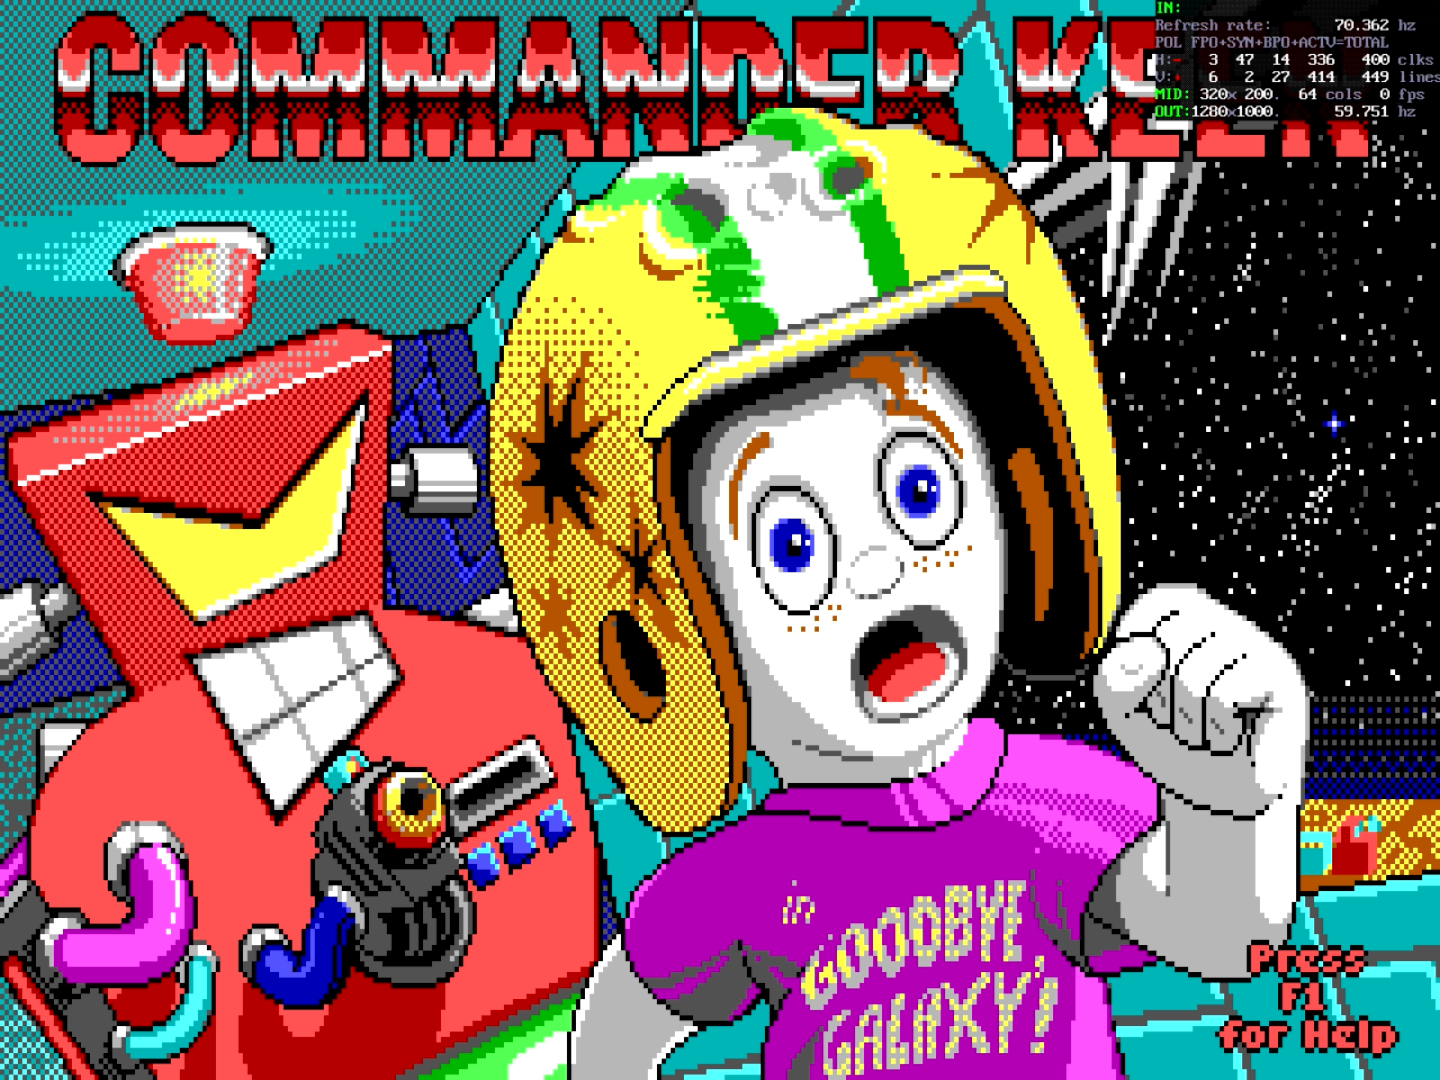
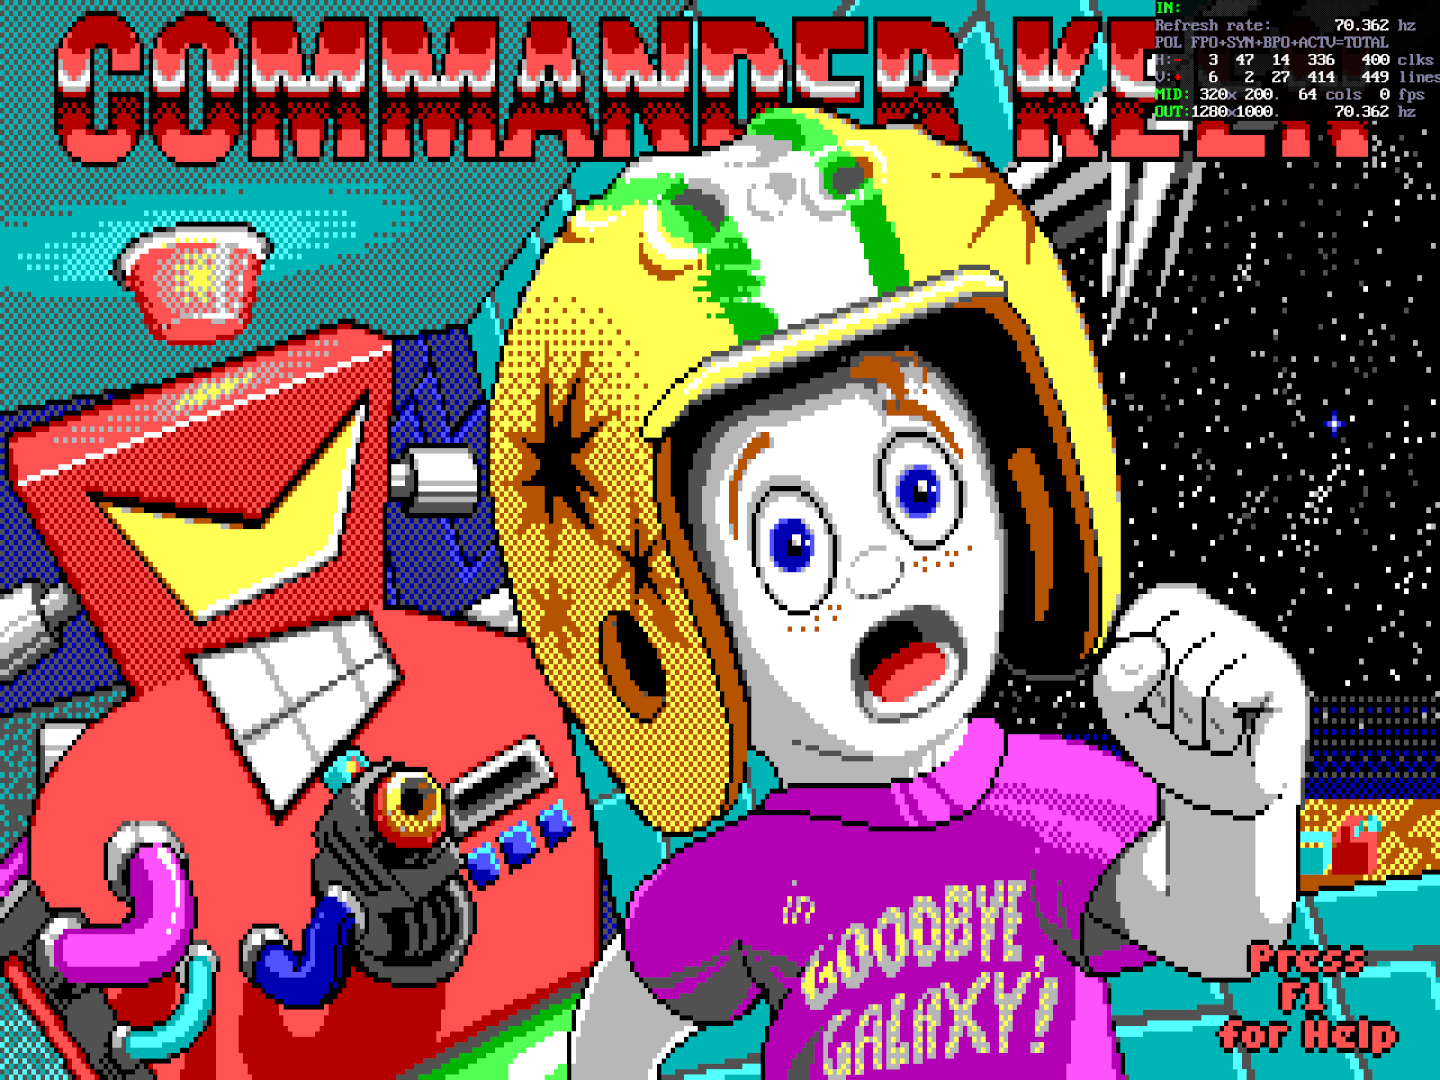
Manual: Revised "Video Upscaling with CRT Terminator" section with a new comparison table, and uploaded new video capture screenshots that avoided a OBS misconfiguration with earlier screenshots.

diff --git a/manual/index.html b/manual/index.html
@@ -87,7 +87,7 @@ td {
 
 <h1 class='center'>CRT Terminator DV1000 ISA</h1>
 <h2 class='center' style='padding-top: 0px'>User Manual</h2>
-<h3 class='center'>2024-11-26</h3>
+<h3 class='center'>2024-12-05</h3>
 
 <img src="crt_terminator_showcase.jpg" style="float:right; width:37%; border: solid 1px black; margin-right: 20px; margin-top: 60px">
 
@@ -610,7 +610,7 @@ all packed into a single 8-bit ISA expansion card!
 
 <p>This section describes the video upscaling strategy employed by CRT Terminator.</p>
 
-<p>First note that CRT Terminator supports a <b>Passthrough mode</b> for use cases where upscaling is not desired. In Passthrough mode, minimal on-the-fly video normalization is performed without the use of a framebuffer (i.e. no added latency), to generate a video signal that many modern displays will hopefully be able to synchronze to.</p>
+<p>First note that CRT Terminator supports a <b>Passthrough mode</b> for use cases where upscaling is not desired. In Passthrough mode, minimal on-the-fly video normalization is performed without the use of a framebuffer (i.e. no added latency), to generate a video signal that many modern displays will hopefully be able to synchronize to.</p>
 
 <p>However, Passthrough mode may have some drawbacks:
 <ul>
@@ -642,14 +642,63 @@ all packed into a single 8-bit ISA expansion card!
 
 <p>Click on the above thumbnails to pixel peep into the full images in 100% size.</p>
 
-<p>When the effects of CRT Terminator video upsampling and flat panel display upsampling are combined, the different CRT Terminator operation modes produce different final results:</p>
-<ul>
-<li><b>Passthrough</b>: Bilinear filtering</li>
-<li><b>Fixed Resolution</b>: Point sampling</li>
-<li><b>MultiMode</b>: Surface Area upsampling</li>
-</ul>
+<p>When the effects of CRT Terminator video upsampling and flat panel display upsampling are combined, the different CRT Terminator operation modes produce different final results. The following table compares the pros and cons of the different modes:</p>
+
+<table>
+  <caption>
+    Comparison of different CRT Terminator video upscaling modes.
+  </caption>
+  <thead>
+    <tr>
+      <th scope="col">Mode</th>
+      <th scope="col">Upscaling</th>
+      <th scope="col">Visual End Result</th>
+      <th scope="col">Uses Framebuffer?</th>
+      <th scope="col">Added Latency</th>
+      <th scope="col">Output Video Mode?</th>
+      <th scope="col">Output Aspect Ratio</th>
+      <th scope="col">LCD Compatibility</th>
+    </tr>
+  </thead>
+  <tbody>
+    <tr>
+      <th scope="row">Passthrough</th>
+      <td>Bilinear Filtering</td>
+      <td>Smoothest</td>
+      <td>No</td>
+      <td>Microseconds</td>
+      <td>Varies</td>
+      <td>Varies. Use 4:3 mode on LCD.</td>
+      <td>Nonstandard</td>
+    </tr>
+    <tr>
+      <th scope="row">Fixed Resolution</th>
+      <td>Point Sampling</td>
+      <td>Crispest</td>
+      <td>Yes</td>
+      <td>1-2 frames</td>
+      <td>Fixed if StutterStop is disabled</td>
+      <td>Fixed 4:3 or 16:9.</td>
+      <td>Standard DMT or CVT</td>
+    </tr>
+    <tr>
+      <th scope="row">MultiMode</th>
+      <td>Surface Area upsampling</td>
+      <td>Balanced</td>
+      <td>Yes</td>
+      <td>1-2 frames</td>
+      <td>Varies</td>
+      <td>Varies. Use 4:3 mode on LCD.</td>
+      <td>Nonstandard</td>
+    </tr>
+  </tbody>
+</table>
 
 <p>In general we recommend using MultiMode for best picture quality, and falling back to other modes for compatibility, subject to taste.</p>
+
+<p>It is good to note that in the modes where input resolution changes trigger an output resolution change (Passthrough, MultiMode, and Fixed Resolution with StutterStop enabled), some LCD displays may take a couple of seconds to sync to the changed video mode. So, as an example, when playing Sierra's Black Cauldron or King's Quest, where switching between inventory and game views incur a video mode change, it may be better to use Fixed Resolution mode with StutterStop disabled, to avoid repeated slow video re-syncs. Some video capture boxes or recording software (such as OBS) may also have trouble with video frame rate changing during recording.
+
+<p>In video modes that use a framebuffer to upscale, single-buffering (vsync disabled, ~1 frame of latency) vs triple-buffering (vsync enabled, ~2 frames of latency) can be controlled in software with CRT Terminator configuration utility.
 
 <a name='pixel_perfect_upscaling'><h2>Pixel Perfect Upscaling DOS 320x200 games</h2></a>
 
@@ -659,9 +708,13 @@ all packed into a single 8-bit ISA expansion card!
 <a href='320x200_upscaled_to_1440x1080_fixed_resolution.png'><img src='320x200_upscaled_to_1440x1080_fixed_resolution.png' style='width: 100%'></a><br>On a 1920x1080 display, upscale to 1440x1080 using <b>Fixed Resolution</b> mode.
 </td><td>
 <a href='320x200_upscaled_to_1440x1080_multimode.png'><img src='320x200_upscaled_to_1440x1080_multimode.png' style='width: 100%'></a><br>On a 1920x1080 display, upscale to 1440x1080 using <b>MultiMode</b> scaling. (CRT Terminator will upscale to 1280x1000 for the LCD display to upscale to 1440x1080 in 4:3 mode)
-</td><td>
-<a href='320x220_upscaled_to_1600x1200.png'><img src='320x220_upscaled_to_1600x1200.png' style='width: 100%'></a><br>On a 1600x1200 or a 1920x1200 display, upscale to 1600x1200 (using either Fixed Resolution or MultiMode operation)
-</td></tr></table>
+</td></tr><td>
+<a href='320x200_upscaled_to_1600x1200.png'><img src='320x200_upscaled_to_1600x1200.png' style='width: 100%'></a><br>On a 1600x1200 or a 1920x1200 display, upscale to 1600x1200 (using either Fixed Resolution or MultiMode operation). Lossless and pixel perfect on real display, video capture suffers from lossy 4:2:0 Chroma.
+</td><td><a href='320x200_passthrough_upscaled_to_1600x1200.png'><img src='320x200_passthrough_upscaled_to_1600x1200.png' style='width: 100%'></a><br>320x200 captured as Passthrough and upscaled to 1600x1200 in OBS. Lossless and pixel perfect.
+</td></tr>
+
+
+</table>
 
 <br>Click on the individual images to load them up in full view.
 
@@ -671,19 +724,21 @@ all packed into a single 8-bit ISA expansion card!
 <a href='320x200_upscaled_to_1440x1080_fixed_resolution_closeup.png'><img src='320x200_upscaled_to_1440x1080_fixed_resolution_closeup.png' style='width: 414px'></a><br>On a 1920x1080 display, upscale to 1440x1080 using <b>Fixed Resolution</b> mode.
 </td><td>
 <a href='320x200_upscaled_to_1440x1080_multimode_closeup.png'><img src='320x200_upscaled_to_1440x1080_multimode_closeup.png' style='width: 414px'></a><br>On a 1920x1080 display, upscale to 1440x1080 using <b>MultiMode</b> scaling.
+</td></tr><tr><td>
+<a href='320x200_upscaled_to_1600x1200_closeup.png'><img src='320x200_upscaled_to_1600x1200_closeup.png' style='width: 460px'></a><br>On a 1600x1200 or a 1920x1200 display, upscale to 1600x1200 (using either Fixed Resolution or MultiMode operation will yield the same result in this case) Lossless and pixel perfect on real display, video capture suffers from lossy 4:2:0 Chroma.
 </td><td>
-<a href='320x220_upscaled_to_1600x1200_closeup.png'><img src='320x220_upscaled_to_1600x1200_closeup.png' style='width: 460px'></a><br>On a 1600x1200 or a 1920x1200 display, upscale to 1600x1200 (using either Fixed Resolution or MultiMode operation will yield the same result in this case)
+<a href='320x200_passthrough_upscaled_to_1600x1200_closeup.png'><img src='320x200_passthrough_upscaled_to_1600x1200_closeup.png' style='width: 460px'></a><br>320x200 captured as Passthrough and upscaled to 1600x1200 in OBS. Lossless and pixel perfect.
 </td></tr></table>
 
-<p>Note that due to use of a <a href='https://en.wikipedia.org/wiki/Chroma_subsampling'>lossy 4:2:0 Chroma</a> StarTech video capture device, there is unfortunately a bit of chroma bleed on adjacent pixels, that is not present when viewed on a real LCD display.
+<p>Note that due to use of a <a href='https://en.wikipedia.org/wiki/Chroma_subsampling'>lossy 4:2:0 Chroma</a> StarTech video capture device, there is unfortunately a bit of chroma bleed on adjacent pixels in all of the above screenshots. That artifact is not present when viewed on a real LCD display. The image in bottom right shows how to use Passthrough mode to avoid lossy Chroma from degrading visual quality.
 
-<p>The first example (left), uses Fixed Resolution upscaling to upsample the video when viewed on a 1920x1080 display. This produces the sharpest output when the output video size (1440x1080) is not an exact integer multiple of the input resolution (320x200). There will however be some amount of aliasing visible in games that display two-color dither/raster patterns.
+<p>The first example (top left), uses Fixed Resolution upscaling to upsample the video when viewed on a 1920x1080 display. This produces the sharpest output when the output video size (1440x1080) is not an exact integer multiple of the input resolution (320x200). There will however be some amount of aliasing visible in games that display two-color dither/raster patterns.
 
-<p>The second example (middle), uses MultiMode upscaling to output the video to 1280x1000, for the LCD display to view in 4:3 1440x1080 mode. This is a great way to balance upscaling 320x200 video on Full HD displays. Note how individual pixels in two-color raster patterns appear evenly sized. (The zoomed up image shows up a bit more blurry than in reality due to 4:2:0 lossy Chroma video capture)
+<p>The second example (top right), uses MultiMode upscaling to output the video to 1280x1000, for the LCD display to view in 4:3 1440x1080 mode. This is a great way to balance upscaling 320x200 video on Full HD displays. Note how individual pixels in two-color raster patterns appear evenly sized. (The zoomed up image shows up a bit more blurry than in reality due to 4:2:0 lossy Chroma video capture)
 
 <p>Which one to use depends on taste: Fixed Resolution provides sharpness, whereas MultiMode provides image quality.
 
-<p>For ideal no-compromises upscaling of 320x200 content, the third example (right) shows how CRT Terminator upscales 320x200 input video to 1600x1200 when viewed on a 1200p capable output display. This upscaling is pixel perfect with zero smoothing/blurring. (any smoothing in the above screenshot is due to 4:2:0 lossy Chroma video capture)
+<p>For ideal no-compromises upscaling of 320x200 content, the third example (bottom left) shows how CRT Terminator upscales 320x200 input video to 1600x1200 when viewed on a 1200p capable output display. This upscaling is pixel perfect with zero smoothing/blurring. (any smoothing in the screenshot is due to 4:2:0 lossy Chroma video capture)
 
 <p>Using a 1600x1200 (or 1920x1200) display is ideal because that resolution is an integer multiple of popular 320x200, 320x240 and 800x600 resolutions.
 
@@ -1792,6 +1847,7 @@ int main()
 <p>This section lists changes to this manual. For precise changes, see <a href='https://github.com/juj/crt_terminator/commits/main/manual'>GitHub history on the manual/ subdirectory</a>.
 
 <ul>
+<li><b>2024-12-05</b>: Revised "Video Upscaling with CRT Terminator" section with a new comparison table, and uploaded new video capture screenshots that avoided a OBS misconfiguration with earlier screenshots.</li>
 <li><b>2024-11-26</b>: Added a section on lossless/pixel perfect VirtualDub HDMI video capture with examples.</li>
 <li><b>2024-11-24</b>: Added a section on HDMI video capture.</li>
 <li><b>2024-11-21</b>: Added link to PALTSR.EXE utility. Added a new section for pixel perfect 320x200 upscaling.</li>
